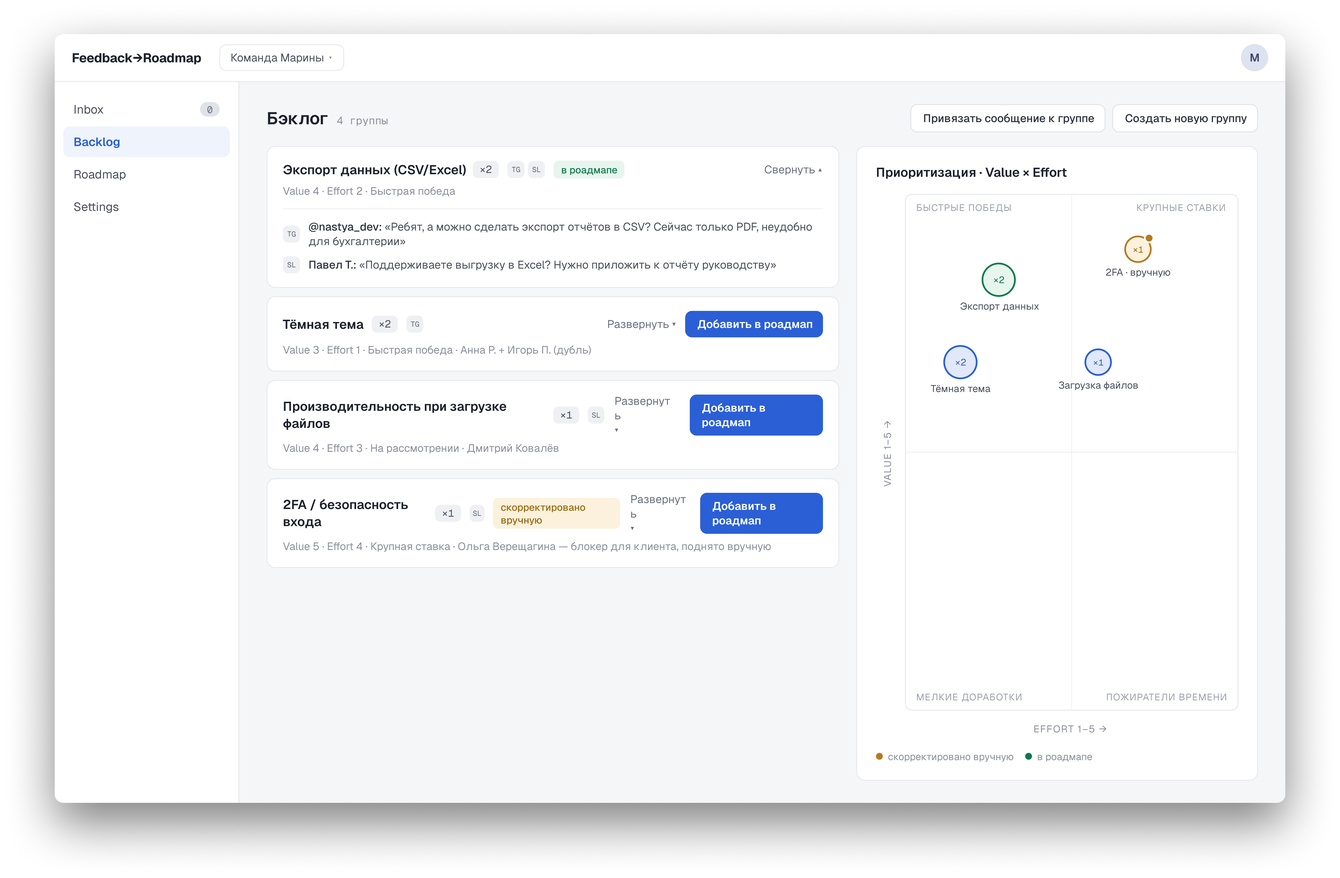
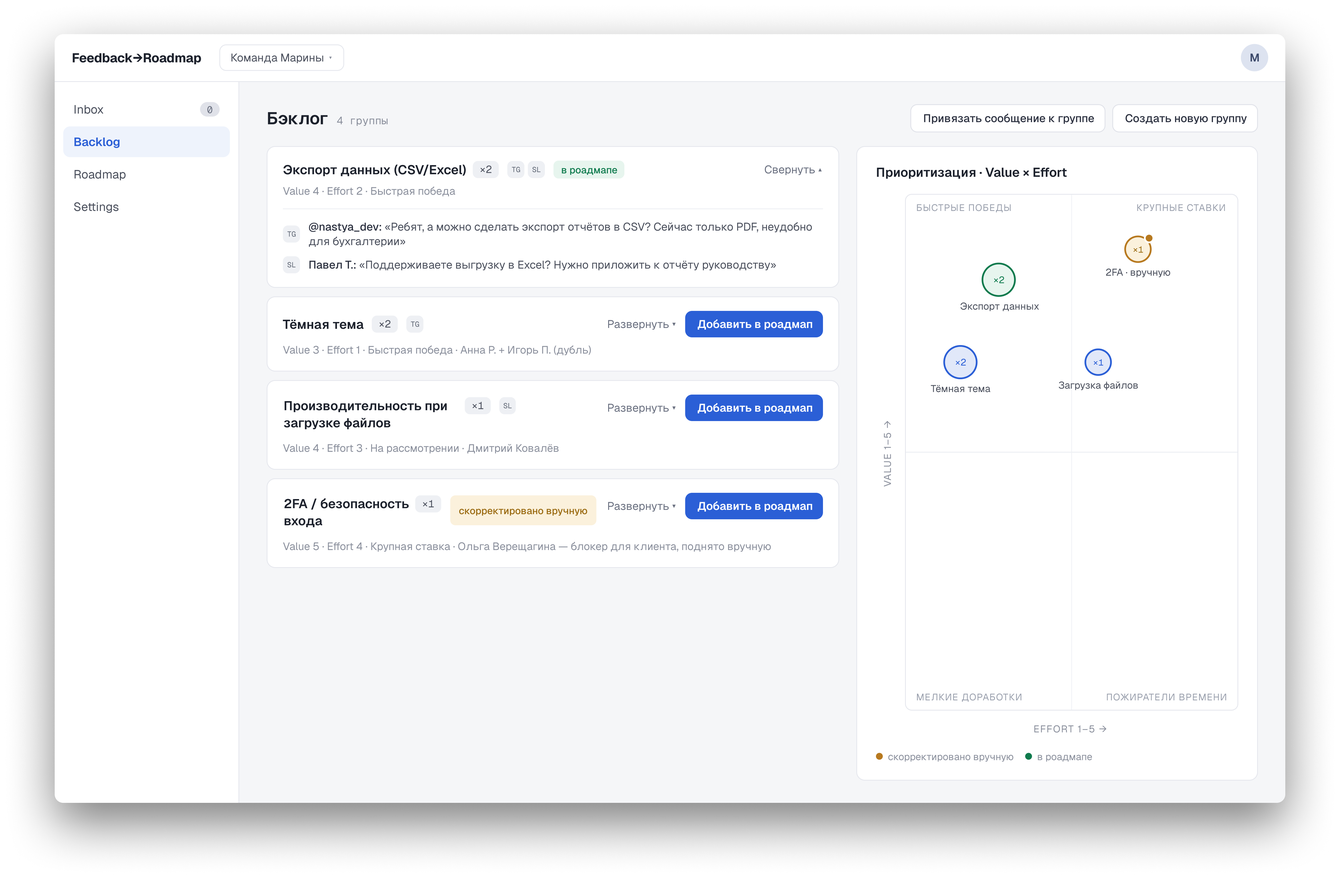
add prototype stage (05): artifact, live proto link, x-ray contract; fix table rendering, sync stage 04 screenshots

Changed region(s): [[0.2188, 0.5603, 0.625, 0.6226], [0.4688, 0.4358, 0.625, 0.4981], [0.2188, 0.4358, 0.375, 0.4981]]

diff --git a/lib/run.ts b/lib/run.ts
@@ -12,7 +12,7 @@ import path from "node:path";
 
 export type RunStage = {
   /** stable id, also used as anchor */
-  id: "brief" | "research" | "ia" | "screens";
+  id: "brief" | "research" | "ia" | "screens" | "prototype";
   /** which agent produced this artifact */
   agent: string;
   /** ordinal label shown in the player timeline */
@@ -33,6 +33,8 @@ export type RunStage = {
   disclaimer?: string;
   /** screenshots grid, if this stage produced visual artifacts */
   images?: { src: string; alt: string }[];
+  /** external CTA, if this stage links out to a live artifact */
+  externalCta?: { href: string; label: string };
 };
 
 export type HonestMoment = {
@@ -112,6 +114,40 @@ const CURATED: Record<RunStage["id"], Omit<RunStage, "raw">> = {
         alt: "Roadmap: канбан из трёх колонок",
       },
     ],
+  },
+  prototype: {
+    id: "prototype",
+    agent: "prototype-builder",
+    step: "05",
+    title: "Prototype",
+    subtitle: "Карта переходов",
+    highlights: [
+      "8 связей: 2 main flow + 4 sidebar-навигации + 2 задокументированных in-place-действия без перехода.",
+      "Переходы «Принять» и «Добавить в роадмап» помечены как прототипная конвенция: в продукте действие in-place, переход добавлен, чтобы сценарий игрался одним путём.",
+      "6 переходов за границей прототипа (Settings, Login, onboarding) зафиксированы, а не выдуманы.",
+      "Animation = Instant: единый persistent shell — desktop tab-switch, не push-стек.",
+      "Документный проход: Figma-connections не создавались, поля помечены «не применимо».",
+    ],
+    input: "screens.md (контекст: ia.md)",
+    objective: "карта переходов и навигации между экранами прогона",
+    constraints: [
+      "только 4 существующих экрана",
+      "переходы на несобранные экраны фиксировать как «за границей прототипа», не выдумывать",
+      "входы read-only",
+      "документный проход без Figma",
+    ],
+    decisions: [
+      "Instant для persistent shell (desktop tab-switch)",
+      "прототипная конвенция для CTA-переходов с явной пометкой",
+      "служебная панель просмотрщика в веб-сборке как мета-слой, не UI продукта",
+    ],
+    change: null,
+    disclaimer:
+      "Этап 05 выполнен продолжением на тех же входных артефактах, без их правки.",
+    externalCta: {
+      href: "https://feedback-roadmap-proto.vercel.app",
+      label: "живой прототип ↗",
+    },
   },
   brief: {
     id: "brief",
@@ -205,11 +241,12 @@ let cached: Run | null = null;
 export async function getRun(): Promise<Run> {
   if (cached) return cached;
 
-  const [brief, research, ia, screens] = await Promise.all([
+  const [brief, research, ia, screens, prototype] = await Promise.all([
     readArtifact("brief.md"),
     readArtifact("research.md"),
     readArtifact("ia.md"),
     readArtifact("screens.md"),
+    readArtifact("prototype.md"),
   ]);
 
   const rawById: Record<RunStage["id"], string> = {
@@ -217,10 +254,11 @@ export async function getRun(): Promise<Run> {
     research,
     ia,
     screens,
+    prototype,
   };
 
   const stages: RunStage[] = (
-    ["brief", "research", "ia", "screens"] as const
+    ["brief", "research", "ia", "screens", "prototype"] as const
   ).map((id) => ({ ...CURATED[id], raw: rawById[id] }));
 
   cached = {

diff --git a/app/components/RunPlayer.tsx b/app/components/RunPlayer.tsx
@@ -3,8 +3,8 @@ import ArtifactSection from "./ArtifactSection";
 import RevealGroup from "./RevealGroup";
 
 /**
- * Beat 3 — RunPlayer. Wraps the four stages (brief → research → ia → screens)
- * under a single "the run" narrative beat. Each stage renders as an
+ * Beat 3 — RunPlayer. Wraps the five stages (brief → research → ia → screens →
+ * prototype) under a single "the run" narrative beat. Each stage renders as an
  * ArtifactSection.
  */
 export default function RunPlayer({ stages }: { stages: RunStage[] }) {
@@ -14,7 +14,7 @@ export default function RunPlayer({ stages }: { stages: RunStage[] }) {
         Прогон
       </h2>
       <p className="mt-2 mb-10 max-w-xl text-zinc-400">
-        Четыре этапа подряд. Каждый артефакт передаётся следующему агенту как вход —
+        Пять этапов подряд. Каждый артефакт передаётся следующему агенту как вход —
         ниже хайлайты, а полный текст раскрывается по клику.
       </p>
 

diff --git a/app/components/SystemMap.tsx b/app/components/SystemMap.tsx
@@ -17,14 +17,14 @@ const MAIN_CHAIN = [
   { id: "research",  name: "researcher",        produces: "research",  executed: true  },
   { id: "ia",        name: "ia-architect",      produces: "ia",        executed: true  },
   { id: "screens",   name: "design-generator",  produces: "screens",   executed: true  },
-  { id: "prototype", name: "prototype-builder", produces: "prototype", executed: false },
+  { id: "prototype", name: "prototype-builder", produces: "prototype", executed: true  },
 ];
 
 const PARALLEL = [
   { id: "test", name: "test-companion", produces: "тест-стенд", executed: false },
 ];
 
-const CONTRACT = ["brief", "research", "ia", "screens"];
+const CONTRACT = ["brief", "research", "ia", "screens", "prototype"];
 
 export default function SystemMap({ stages }: { stages: RunStage[] }) {
   const [mode, setMode] = useState<"showcase" | "xray">("showcase");

diff --git a/app/components/ArtifactSection.tsx b/app/components/ArtifactSection.tsx
@@ -51,6 +51,17 @@ export default function ArtifactSection({ stage }: { stage: RunStage }) {
         <ScreensLightbox images={stage.images} />
       )}
 
+      {stage.externalCta && (
+        <a
+          href={stage.externalCta.href}
+          target="_blank"
+          rel="noopener noreferrer"
+          className="mt-6 inline-flex items-center gap-2 rounded-full bg-zinc-100 px-5 py-2.5 text-sm font-medium text-zinc-900 transition-colors hover:bg-zinc-300"
+        >
+          {stage.externalCta.label}
+        </a>
+      )}
+
       <details className="group mt-5 rounded-lg border border-zinc-800">
         <summary className="cursor-pointer list-none px-4 py-3 text-sm font-medium text-zinc-400 select-none hover:text-zinc-100">
           <span className="inline-flex items-center gap-2">

diff --git a/app/components/Hero.tsx b/app/components/Hero.tsx
@@ -16,11 +16,11 @@ export default function Hero() {
         где прогон честно скорректировал сам себя.
       </p>
       <div className="flex flex-wrap gap-x-6 gap-y-2 text-sm text-zinc-400">
-        <span>4 артефакта</span>
+        <span>5 артефактов</span>
         <span aria-hidden>·</span>
         <span>6 агентов + оркестратор</span>
         <span aria-hidden>·</span>
-        <span>контракт brief → research → ia → screens</span>
+        <span>контракт brief → research → ia → screens → prototype</span>
         <span aria-hidden>·</span>
         <a
           href="#system"

diff --git a/app/components/Markdown.tsx b/app/components/Markdown.tsx
@@ -66,7 +66,7 @@ const components: Components = {
   ),
   table: ({ children }) => (
     <div className="my-4 overflow-x-auto">
-      <table className="w-full border-collapse text-left text-sm">
+      <table className="min-w-full border-collapse text-left text-sm">
         {children}
       </table>
     </div>

diff --git a/content/run/prototype.md b/content/run/prototype.md
@@ -1,0 +1,228 @@
+# Prototype — Feedback→Roadmap
+
+> **Режим прогона:** документный проход, без Figma. Ни один инструмент `mcp__figma__use_figma`
+> не вызывался в этом прогоне: никакие Prototype Connections/reactions в самом Figma-файле не
+> создавались, Flow Start не проставлялся в Figma UI. Все поля ниже, которые в норме описывают
+> «живую» проводку прототипа в Figma, помечены как **«не применимо»** — по той же конвенции,
+> что `screens.md` использовал для Frame ID / Figma file URL. Ниже полностью
+> задокументирована **целевая карта переходов** (source → trigger → target → animation) так,
+> как её нужно реализовать при следующем проходе с реальным Figma MCP-доступом.
+
+## Сводка
+
+- **Стартовый Frame (Flow Start):** `Inbox (Входящие)` — совпадает с «Главный экран» из
+  `ia.md` (обоснование там: JTBD-1, единственный экран с регулярным pull, самый трудоёмкий
+  шаг сценария «понедельничный разбор»). `Login` в `ia.md` User Flow формально идёт первым
+  шагом, но экран Login не собран (см. `screens.md` §«Технический долг / Отложено») — поэтому
+  прототип в этом объёме начинается сразу с Inbox, это задокументировано ниже как переход за
+  границей прототипа, а не проигнорировано молча.
+- **Flow Start проставлен в Figma:** не применимо (документный проход, live-wiring не
+  выполнялся).
+- **Figma file URL:** не применимо (документный проход).
+- **Экраны в скоупе (ровно 4, по жёсткому ограничению задания):**
+  1. `Inbox (Входящие)`
+  2. `Inbox — Empty state` (альтернативное состояние того же логического экрана, отдельный
+     Frame по `screens.md`)
+  3. `Backlog (группы + приоритизация Value×Effort)` — один экран, split-view
+  4. `Roadmap (Kanban)`
+- **Кол-во задокументированных connections:** 8 всего —
+  2 main flow + 4 navigation (sidebar cross-links) + 0 in-scope edge-case connections
+  (все edge-case CTA из `ia.md`, применимые к этим 4 экранам, ведут за границу прототипа —
+  см. раздел «Edge cases» и «Известные ограничения») + 2 явно задокументированных
+  «нет перехода, in-place изменение состояния» пункта, которые упомянуты для полноты
+  трассировки user flow, но не являются Frame-connections.
+- Ни одна из connections ниже не создана физически в Figma — весь раздел является
+  спецификацией для следующего прохода `prototype-builder` с реальным MCP-доступом (пометка
+  ⚠ «создать руками через UI Figma / через `use_figma`» стоит на каждой строке ниже, единообразно, а
+  не только на «проблемных» переходах, потому что в этом прогоне не было живой сессии вообще).
+
+## Замечания к входным данным
+
+1. **Backlog: один экран в `screens.md` vs два под-узла в sitemap `ia.md`.** Sitemap в
+   `ia.md` перечисляет «Группы / Темы» и «Приоритизация (Value × Effort)» как два отдельных
+   под-узла Backlog; User Flow (шаги 5–9) проходит их последовательно в рамках одного визита
+   без явного указания смены экрана/URL. `screens.md` уже сам зафиксировал это расхождение
+   (раздел «Заметки о противоречиях/пробелах входа», п.1) и решил собрать один Frame
+   (split-view). Прототип здесь наследует это решение: шаги 5–9 ia.md все указывают на один и
+   тот же Frame `Backlog`, без внутренних переходов между «под-экранами». Расхождение не
+   правилось, только фиксируется повторно для прозрачности перед `ia-architect`.
+2. **Login (ia.md User Flow, шаг 1) отсутствует как Frame.** `ia.md` формально ставит Login
+   первым шагом главного сценария, но ни `screens.md`, ни этот прогон не создавали такой
+   экран (жёсткий скоуп задания — 4 экрана, ни один из них не Login). Это не противоречие
+   входных данных как таковое (`screens.md` сам явно отложил Login), но так как `ia.md`
+   продолжает ссылаться на Login как на шаг 1 главного флоу, это создаёт разрыв на границе
+   прототипа — задокументирован в «Известные ограничения» как переход за границей.
+3. Расхождений в именах экранов между `screens.md` и `ia.md` не найдено — «Inbox», «Backlog»,
+   «Roadmap» называются идентично (с поправкой на русские подписи в скобках), Settings тоже
+   называется одинаково в обоих артефактах (просто не собран).
+
+## Main flow
+
+Источник: `ia.md` §«User Flow — главный сценарий», отфильтровано по 4 существующим экранам.
+Шаг 1 (Login) исключён — экран не собран, см. «Известные ограничения». Шаги, которые не меняют
+Frame (действие остаётся на том же экране), помечены явно в колонке Animation как «нет
+перехода» — они не являются prototype connections, но включены в таблицу для полной
+трассировки user flow к экранам.
+
+| # (ia.md) | Source Frame | Trigger element | Target Frame | Animation | Статус |
+|---|---|---|---|---|---|
+| 2 | Inbox (Входящие) | — (просмотр списка, действия нет) | — | нет перехода | — |
+| 3 | Inbox (Входящие) | Кнопка «Отклонить (шум)» на строке списка | — (строка скрывается in-place, счётчик уменьшается) | нет перехода — in-place [3] | ⚠ tech debt, см. «Известные ограничения» |
+| 4 | Inbox (Входящие) | Кнопка **«Принять»** на строке списка (Main CTA Screen 1) | Backlog (группы + приоритизация Value×Effort) | **Instant** — обоснование ниже | ⚠ создать руками [1] · прототипная конвенция [2] |
+| 5 | Backlog | — (просмотр авто-сгруппированных тем) | — | нет перехода | — |
+| 6 | Backlog | Привязка элемента к группе / «Создать новую группу» (карточка группы) | — (обновление счётчика частоты in-place) | нет перехода — in-place [4] | ⚠ tech debt |
+| 7 | Backlog | Выставление Value/Effort (маркер на матрице) | — (пересчёт ранга in-place) | нет перехода — in-place [5] | ⚠ tech debt |
+| 8 | Backlog | Ручное перетаскивание пункта (drag) | — (бейдж «скорректировано вручную» in-place) | нет перехода — in-place [6] | ⚠ tech debt |
+| 9 | Backlog | Кнопка **«Добавить в роадмап»** на топ-карточке/маркере (Main CTA Screen 2) | Roadmap (Kanban) | **Instant** — обоснование ниже | ⚠ создать руками [1] · прототипная конвенция [2] |
+| 10 | Roadmap | Drag-and-drop карточки между колонками «To Do» → «In Progress» | — (карточка перемещается в пределах одного Frame) | нет перехода — in-place [7] | ⚠ tech debt |
+
+Сноски к таблице Main flow:
+
+- [1] Не создано в этом прогоне — требуется UI Figma / use_figma при следующем проходе.
+- [2] Прототипная конвенция: в продукте действие in-place (элемент перемещается, пользователь остаётся на экране); переход добавлен, чтобы прототип проигрывал сценарий понедельничного разбора одним путём.
+- [3] Требуется компонент-вариант строки (visible/dismissed), не собран в `screens.md`.
+- [4] Требуется компонент-вариант карточки, не собран.
+- [5] Требуется interactive component / variant, не собран.
+- [6] Smart Animate между двумя состояниями одного Frame потребовал бы второй Frame-снимок матрицы, которого нет.
+- [7] Потребовал бы Smart Animate между Frame «до» и «после» с общим именем карточки; второго снимка доски нет.
+
+**Обоснование Animation = Instant (а не Move In) для переходов 4 и 9:**
+Все 4 экрана используют один и тот же persistent shell (Top bar + Left sidebar, идентичные по
+`screens.md` для Inbox/Backlog/Roadmap). Это не мобильный push-стек с полноэкранными
+переходами, а desktop-приложение с фиксированной навигацией и меняющимся центральным
+контентом — паттерн ближе к «tab switch», для которого правило анимаций прямо предписывает
+Instant. Move In/Move Out (слева/справа) в этом контексте создавали бы иллюзию «отъезжающего
+экрана целиком», включая statичный sidebar и topbar, что не соответствует происходящему на
+самом деле (меняется только центральная зона). Поэтому по всей карте переходов (main flow и
+navigation) используется единообразно Instant.
+
+## Navigation
+
+Sidebar (Left navigation, идентичен на Inbox / Inbox-empty / Backlog / Roadmap по описанию
+структуры в `screens.md`) содержит 4 пункта: Inbox, Backlog, Roadmap, Settings.
+
+| Source | Trigger | Target | Animation | Статус |
+|---|---|---|---|---|
+| Backlog, Roadmap | Sidebar item «Inbox» | Inbox (Входящие) | Instant | ⚠ создать руками |
+| Inbox, Inbox — Empty state, Roadmap | Sidebar item «Backlog» | Backlog | Instant | ⚠ создать руками |
+| Inbox, Inbox — Empty state, Backlog | Sidebar item «Roadmap» | Roadmap (Kanban) | Instant | ⚠ создать руками |
+| Все 4 экрана | Sidebar item «Settings» | — | — | **переход за границей прототипа** — Settings не собран, см. «Известные ограничения» |
+
+**Back button:** не применимо. Это desktop-приложение с persistent shell-навигацией
+(sidebar), а не мобильный push/pop навигационный стек — отдельного элемента «Назад» / «←» ни
+на одном из 4 Frame по спецификации `screens.md` нет, придумывать его не буду (правило «не
+выдумывать обход»).
+
+**Tab bar:** отдельного мобильного TabBar-компонента нет (платформа — desktop web, см.
+`screens.md` §«Сводка» — «Мобильная/адаптивная версия — не запрошена»). Роль tab bar выполняет
+sidebar, обработан выше.
+
+**Home button / логотип:** в Top bar есть «имя продукта» (логотип), но `screens.md` не
+фиксирует его как кликабельный элемент с явным действием — не добавляю отдельную connection
+по правилу «не выдумывать», предложение зафиксировано как открытый пункт ниже.
+
+## Edge cases
+
+Из `ia.md` §«Edge Cases», отфильтровано по применимости к 4 существующим экранам.
+
+| Edge case | Source | Trigger | Target | Animation | Статус |
+|---|---|---|---|---|---|
+| Empty State (ia.md Edge Case 1, вариант A — интеграция не подключена) | Inbox — Empty state | Кнопка «Подключить Telegram» | Settings → Интеграции | не проектировалось [1] | **переход за границей прототипа** — Settings не собран |
+| Empty State, вариант B (интеграция подключена, фидбэка нет) | Inbox — Empty state | — (нет CTA, per `screens.md` — «действие происходит вне продукта, в Telegram») | — | — | нет перехода по дизайну, не ограничение |
+| Error: Telegram API недоступен (ia.md Edge Case 2, банер на Inbox) | Inbox (Входящие) | Кнопка «Настройки» в баннере | Settings → Интеграции | — | за границей прототипа [2] |
+| Error: ошибка авто-группировки (Backlog) | Backlog | — (визуально: иконка предупреждения в разделе «Без группы») | — (in-place, PM вручную привязывает) | — | ⚠ tech debt [3] |
+| Error: сеть при сохранении приоритета (Backlog, toast) | Backlog | Кнопка «Повторить» в toast | — (retry на месте, при успехе просто обновляет состояние того же Frame) | — | ⚠ tech debt [4] |
+| Error: OAuth при подключении (Settings) | Settings | — | — | — | вне скоупа целиком, экран Settings не собран |
+| First-time onboarding wizard (ia.md Edge Case 3) | — | — | — | — | вне скоупа целиком, экраны wizard не собраны |
+| Returning user, >7 дней / >20 элементов (баннер на Inbox) | Inbox (Входящие) | — (информационный баннер, нет CTA-перехода в ia.md) | — | — | нет перехода по дизайну, не ограничение |
+
+Сноски к таблице Edge cases:
+
+- [1] Move In bottom (если модалка) / Instant (если полноценный экран) — не проектировалось, т.к. экран отсутствует.
+- [2] Переход за границей прототипа — Settings не собран; отдельного Error-баннер Frame тоже нет (см. `screens.md` «Технический долг»).
+- [3] Нет Frame-перехода; отдельного состояния Frame не собрано.
+- [4] Нет Frame-перехода; toast-компонент не собран отдельным Frame.
+
+**Итог:** ни один edge-case-переход не может быть замкнут внутри 4 существующих экранов —
+все реальные CTA edge-кейсов либо ведут в Settings (не собран), либо остаются in-place без
+смены Frame (компонентные состояния не собраны). Это не ошибка данного прогона — это прямое
+следствие жёсткого скоупа «4 экрана», зафиксированного и в `screens.md`, и в задании на этот
+прогон.
+
+## Как открыть прототип
+
+Инструкция ниже — целевая, для следующего прохода с реальным Figma MCP-доступом (в этом
+прогоне ничего не проигрывалось вживую):
+
+1. Открыть Figma-файл проекта (URL пока не применимо — файл не создавался в этом прогоне).
+2. Выполнить связи из разделов «Main flow» / «Navigation» через `use_figma` (Prototype tab)
+   или руками через UI Figma — каждая помечена ⚠ выше как ещё не созданная.
+3. Выбрать Frame `Inbox (Входящие)` и пометить его как Flow Start.
+4. Нажать Present (или клавишу D) на Frame `Inbox (Входящие)`.
+5. Прототип пройдёт: Inbox → (Принять) → Backlog → (Добавить в роадмап) → Roadmap, плюс
+   sidebar-переходы между тремя экранами в любом порядке. Переходы к Settings и обратно к
+   Inbox-empty state кликом внутри прототипа недоступны (см. «Известные ограничения»).
+6. **Веб-сборка прототипа:** в веб-версии прототипа добавляется служебная панель просмотрщика
+   (переключатель 4 экранов) — мета-слой прототипа, не элемент UI продукта; решает
+   недостижимость Inbox-empty кликом.
+
+## Известные ограничения
+
+1. **Документный проход, без живой проводки в Figma.** Ни один вызов
+   `mcp__figma__use_figma` не выполнялся в этой сессии. Ни одна Prototype Connection/reaction
+   физически не создана в Figma-файле, Flow Start не проставлен в самом Figma UI. Весь этот
+   документ — спецификация для реализации при следующем проходе с write-доступом к Figma
+   (remote MCP, OAuth, team-доступ — см. `CLAUDE.md` §MCP).
+2. **В скоупе всего 4 экрана из полного sitemap `ia.md`.** Полный sitemap (`ia.md`
+   §«Sitemap») содержит 4 верхнеуровневых раздела и 8 под-узлов: Inbox (2: «Все элементы»,
+   «Без группы»), Backlog (2: «Группы/Темы», «Приоритизация»), Roadmap (1: «Kanban-вид»),
+   Settings (3: «Интеграции», «Правила захвата», «Рабочее пространство и участники»). Кроме
+   того, User Flow ссылается на Login (шаг 1) и Edge Case 3 — на 3-шаговый onboarding wizard,
+   ни один из которых не входит в формальный sitemap, но упоминается в flow. Из всего этого
+   объёма собраны и доступны для прототипирования только: Inbox, Inbox — Empty state, Backlog
+   (единым экраном), Roadmap — то есть 4 Frame из потенциальных ~10+ экранов/состояний,
+   описанных в `ia.md`. Это прямое наследование скоупа `screens.md` (§«Технический долг /
+   Отложено»), не новое ограничение этого прогона.
+3. **Переходы за границей прототипа (out-of-scope targets)** — зафиксированы явно, а не
+   выдуманы обходным путём:
+   - `Inbox — Empty state` → кнопка «Подключить Telegram» → **Settings → Интеграции**
+     (ia.md Edge Case 1). Экран Settings не сгенерирован.
+   - `Inbox (Входящие)` → кнопка «Настройки» в error-баннере «Telegram API недоступен» →
+     **Settings → Интеграции** (ia.md Edge Case 2). Экран Settings не сгенерирован, сам
+     error-баннер тоже не собран отдельным Frame/state.
+   - Все 4 экрана → sidebar item «Settings» → **Settings** (общий пункт левой навигации).
+     Экран не сгенерирован.
+   - `Login` (ia.md User Flow шаг 1) → **Inbox**. Экран Login не сгенерирован; прототип в
+     этом объёме стартует напрямую с Inbox (Flow Start), минуя авторизацию.
+   - `Onboarding wizard` (ia.md Edge Case 3, 3 шага) — все шаги отсутствуют как Frame;
+     переход wizard → Inbox с CTA «Разберите первую партию» не может быть проложен.
+4. **Компонентные in-place состояния не собраны** — ряд шагов главного user flow (отклонение
+   строки в Inbox, привязка к группе, простановка Value/Effort, ручной drag на матрице,
+   drag-and-drop карточек в Roadmap) технически не меняют Frame, а меняют состояние
+   компонента внутри одного Frame. Ни для одного из этих состояний в `screens.md` не собраны
+   отдельные варианты компонентов (no variants), поэтому такие переходы не задокументированы
+   как prototype connections, а помечены как tech debt в таблице «Main flow». Для реалистичной
+   демонстрации потребуется отдельный проход `design-generator` с component variants
+   (например, строка списка: default/dismissed; карточка группы: default/updated) — это не
+   было решено «обходом» (например, фейковой связью к другому Frame), а явно оставлено
+   незамкнутым.
+5. **Нет прямой связи между `Inbox (Входящие)` и `Inbox — Empty state`.** Это два разных
+   Frame, представляющих одно и то же логическое место в sitemap в разных состояниях данных
+   (пусто / не пусто). Переход между ними в реальном продукте управляется наличием данных, а
+   не действием пользователя внутри прототипа — поэтому click-triggered connection между ними
+   намеренно не создавалась (не выдумывался фейковый триггер).
+6. **Home-иконка / логотип в Top bar** не задокументирована как кликабельный элемент в
+   `screens.md` (нет явного указания на действие) — connection на «главную» через логотип не
+   добавлена, чтобы не выдумывать несуществующее поведение. Если логотип должен вести на
+   Inbox, это нужно явно зафиксировать в `screens.md` при следующей итерации
+   `design-generator`, после чего добавить сюда.
+7. Расхождение между `screens.md` (Backlog как один экран) и `ia.md` sitemap (Backlog как два
+   под-узла) — уже задокументировано `screens.md` самостоятельно; здесь только подтверждено
+   повторно, входные файлы не редактировались.
+8. **Переходы 4 и 9 (Main flow) — прототипная конвенция, не 1:1 с поведением продукта.** В
+   реальном продукте действия «Принять» и «Добавить в роадмап» происходят in-place: элемент
+   перемещается между разделами (Inbox → Backlog → Roadmap), но пользователь не покидает
+   текущий экран/контекст. Переход на другой Frame добавлен в прототип намеренно — иначе
+   сценарий «понедельничный разбор» нельзя было бы проиграть одним непрерывным путём по трём
+   экранам. Это осознанное упрощение прототипа ради демонстрируемости флоу, а не описание
+   реального поведения продукта.
